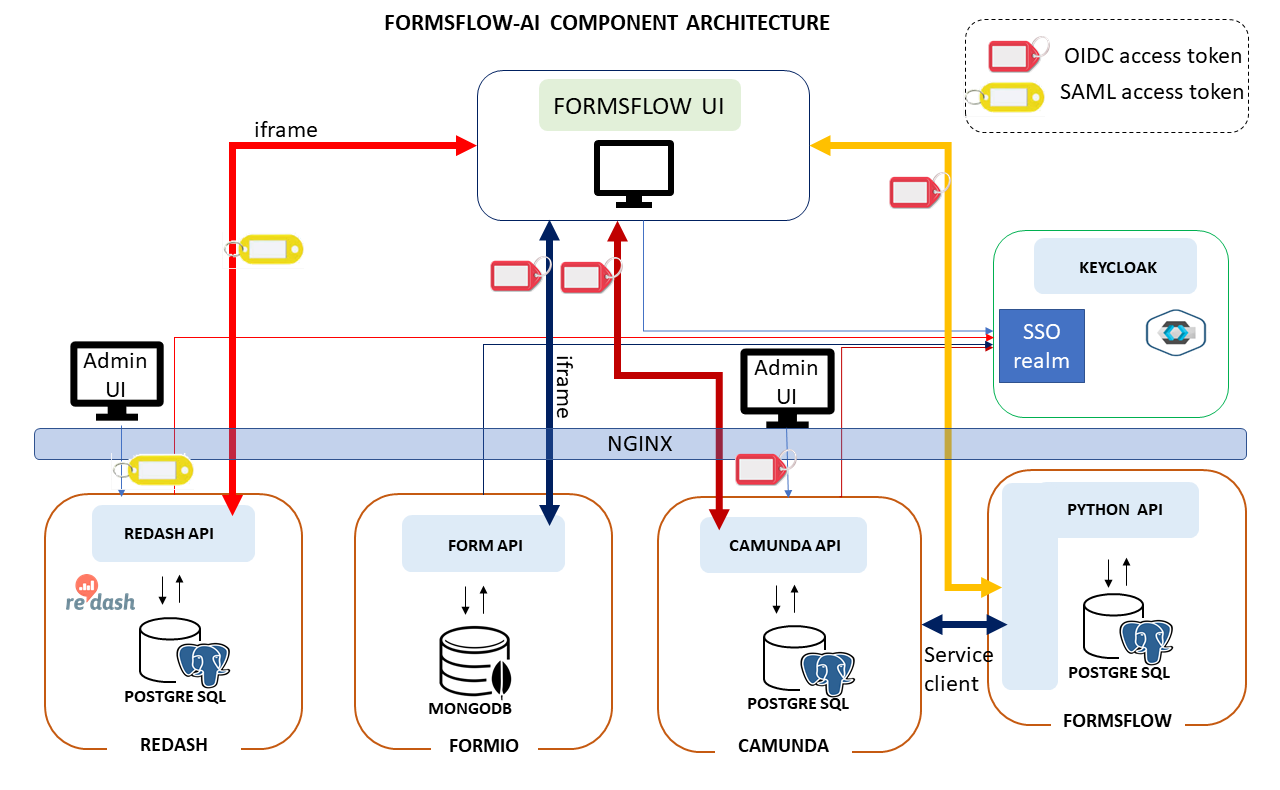
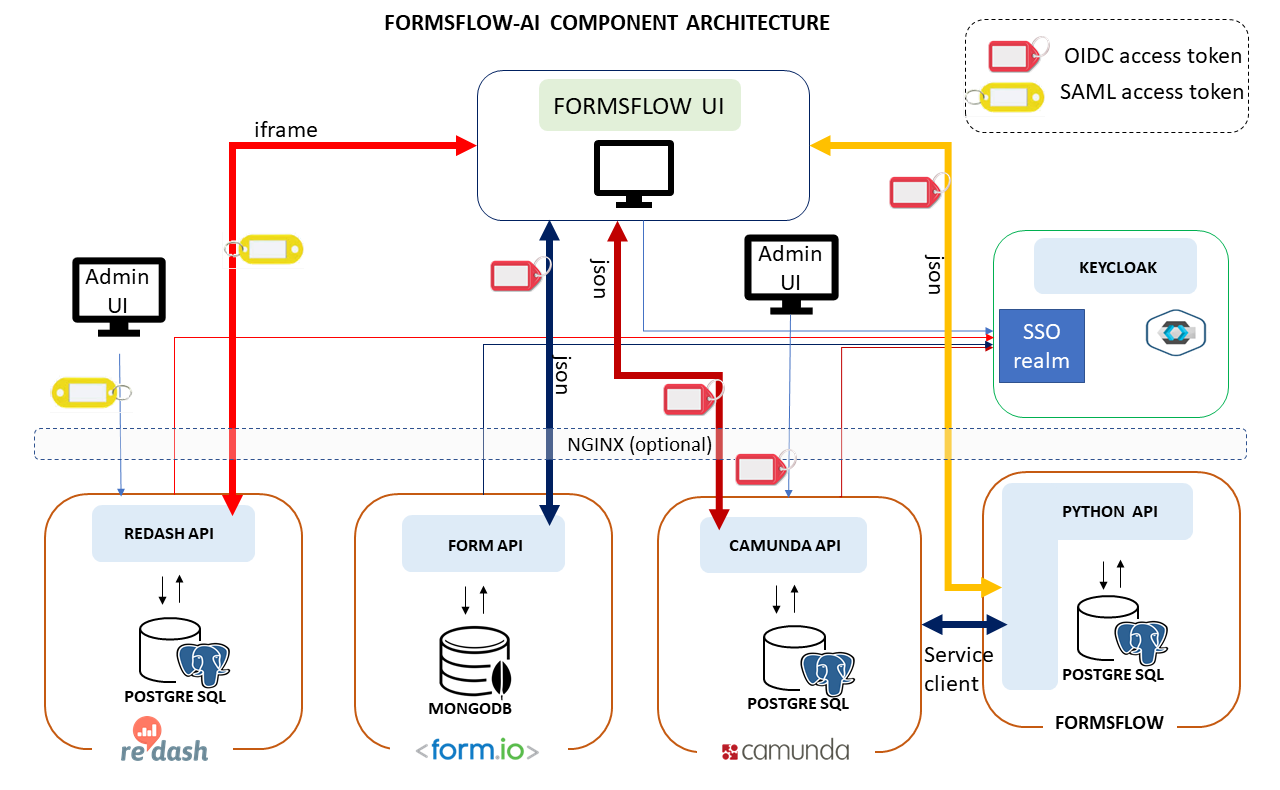
Moved nginx out of main README, updated component diagram

diff --git a/README.md b/README.md
@@ -282,9 +282,6 @@ Variable name | Meaning | Possible values | Default value |
 `REACT_APP_INSIGHT_API_BASE`| Insight Api base end-point| eg. | 
 `REACT_APP_INSIGHTS_API_KEY`| API_KEY from REDASH | | must insert your ReDash API key here
 
-#### Camunda
-Variable name | Meaning | Possible values | Default value |
---- | --- | --- | ---
 `JDBC_URL`|JDBC DB Connection URL for BPM-API||`jdbc:postgresql://forms-flow-bpm-db:5432/postgres`	
 `JDBC_USER`|Username for BPM database user|||	
 `JDBC_PASSWORD`|Password for BPM database user|||
@@ -328,30 +325,7 @@ Analytics-Redash
 ----------------
 - Refer [forms-flow-analytics](https://github.com/AOT-Technologies/forms-flow-ai/tree/master/forms-flow-analytics#how-to-run)
 
-Additional Configuration
--------------------------
-- SSL Nginx configurations
-  ------------------------
-   - Create hostnames and secure them using the appropriate certificates
-     - Generate certificates as below and place in the appropriate server paths
-         - forms-flow-web hostname fullchain.pem
-         - forms-flow-web hostname privkey.pem
-         - forms-flow-forms hostname fullchain.pem
-         - forms-flow-forms hostname privkey.pem
-         - forms-flow-bpm hostname fullchain.pem
-         - forms-flow-bpm hostname privkey.pem
-  - Open /nginx/conf.d/app.conf
-  - Update the paths accordingly in the app.conf
-     - Update the localhost to the server IP address for the below URLs
-         - http://localhost:3000
-         - http://localhost:3001
-         - https://localhost:8000
-           - NOTE: 'https' for localhost:8000
-  - Refer [nginx](https://github.com/AOT-Technologies/forms-flow-ai/tree/master/nginx#how-to-run)
-  
-NOTE:
-  - Once nginx server is applied, change the hostnames in the Keycloak server for forms-flow-web and forms-flow-bpm
-  - Also change values for REACT_APP_API_SERVER_URL and REACT_APP_API_PROJECT_URL with the hostname in .env file
+
   
 ## License
 
